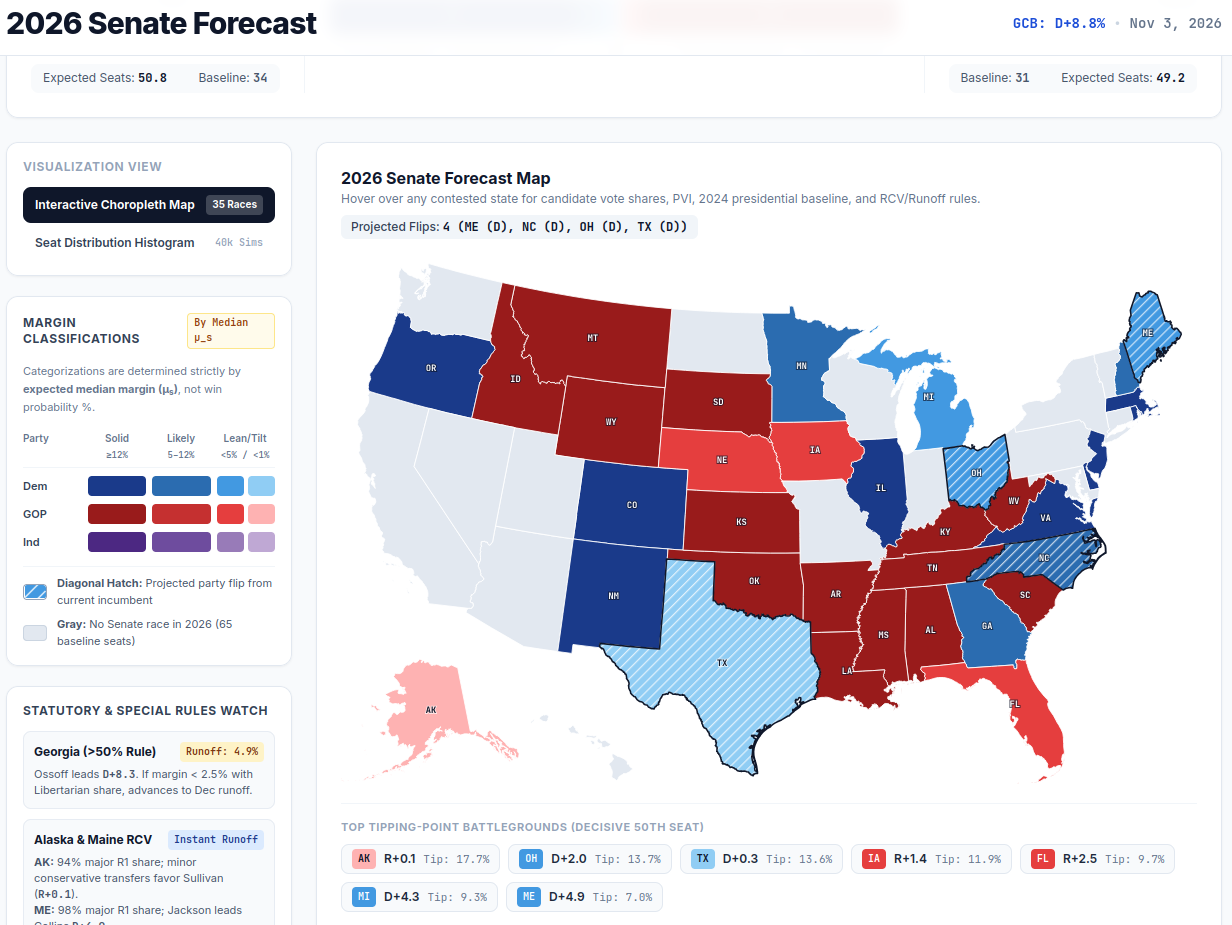
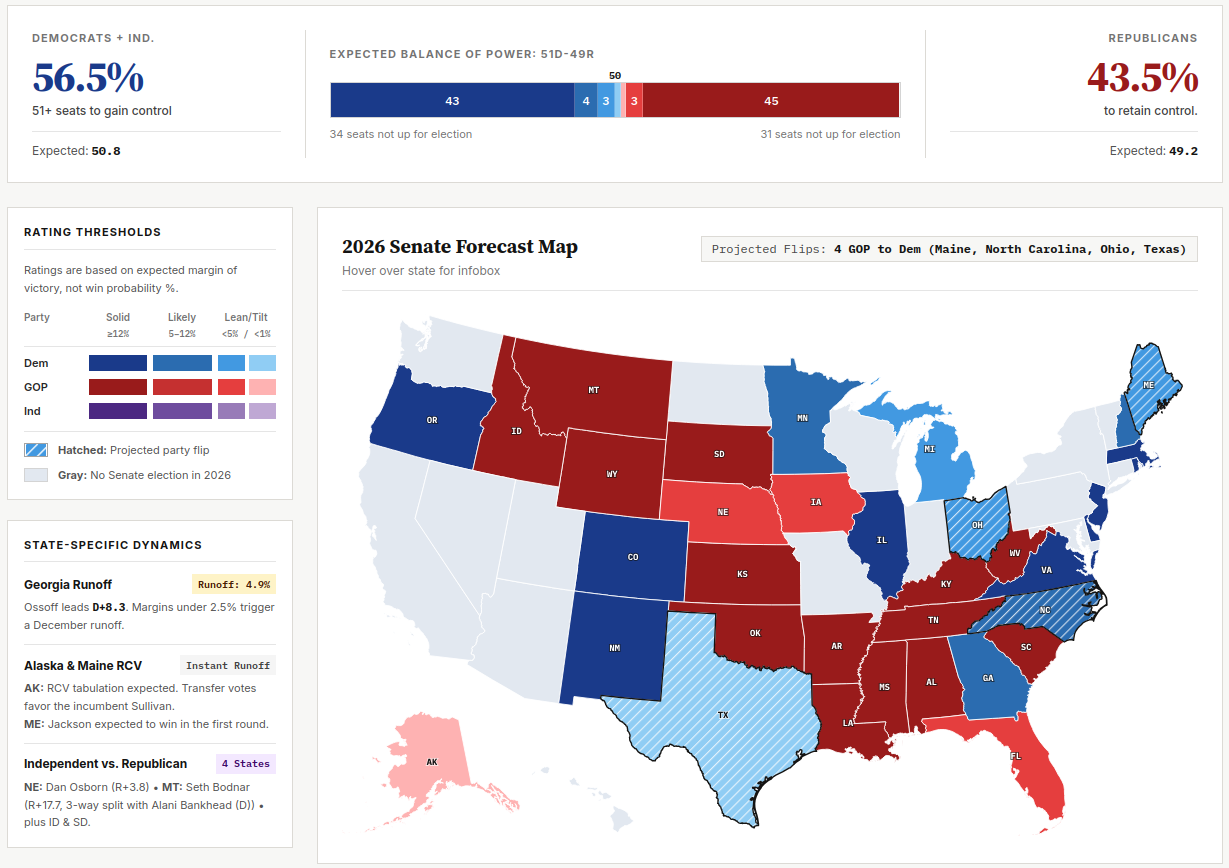
polished methodology section, added readme content, and updated preview image

diff --git a/docs/index.html b/docs/index.html
@@ -332,20 +332,17 @@
         <section id="section-methodology" class="bg-white border border-rule p-6 sm:p-8 space-y-6">
             <div class="border-b border-rule pb-4 flex flex-wrap items-baseline justify-between gap-2">
                 <div>
-                    <span class="text-[11px] font-bold uppercase tracking-widest text-neutral-500">Technical
-                        Documentation</span>
-                    <h2 class="font-serif text-2xl font-bold text-ink mt-0.5">Forecasting Methodology</h2>
+                    <h2 class="font-serif text-2xl font-bold text-ink mt-0.5">Methodology</h2>
                 </div>
-                <span class="text-xs font-mono text-neutral-500">40,000 Correlated Trials</span>
             </div>
 
             <div class="grid grid-cols-1 md:grid-cols-2 lg:grid-cols-3 gap-6 text-xs leading-relaxed text-neutral-700">
                 <!-- Block 1 -->
                 <div class="border-t-2 border-ink pt-3.5 space-y-2">
-                    <h3 class="font-bold text-sm text-ink">1. Polling &amp; Fundamentals Blend (85 / 15)</h3>
+                    <h3 class="font-bold text-sm text-ink">1. Polling &amp; Fundamentals (85 / 15)</h3>
                     <p>
                         For polled races, the expected margin <span class="font-mono text-ink">μ_s</span> weights
-                        recency-decayed, screen-adjusted polling composites at <strong>85%</strong> and structural
+                        screen-adjusted polling composites at <strong>85%</strong>, and 
                         fundamentals at <strong>15%</strong>:
                     </p>
                     <div class="bg-paper p-2.5 border border-rule font-mono text-[11px] text-ink">
@@ -353,26 +350,25 @@
                     </div>
                     <p>
                         Fundamentals combine state Voter Index, the national Generic Ballot (<span
-                            class="font-mono">D+8.8% × Elasticity</span>), strict incumbency (<span
+                            class="font-mono">D+8.8% × Elasticity</span>), incumbency (<span
                             class="font-mono">±2.5%</span> only when a sitting Senator runs; <span
-                            class="font-mono">0.0%</span> in open seats), and candidate office tiers.
+                            class="font-mono">0.0%</span> in open seats), and candidate experience.
                     </p>
                 </div>
 
                 <!-- Block 2 -->
                 <div class="border-t-2 border-ink pt-3.5 space-y-2">
-                    <h3 class="font-bold text-sm text-ink">2. Cycle-Weighted Voter Index (0.65 / 0.35)</h3>
+                    <h3 class="font-bold text-sm text-ink">2. Voter Index</h3>
                     <p>
-                        Each state's baseline Partisan Voter Index weights the 2024 presidential two-party margin
-                        deviation at <strong>65%</strong> and the 2020 deviation at <strong>35%</strong>:
+                        Each state's baseline Partisan Voter Index weights the 2024 presidential margin
+                        at <strong>65%</strong> and the 2020 margin at <strong>35%</strong>:
                     </p>
                     <div class="bg-paper p-2.5 border border-rule font-mono text-[11px] text-ink">
                         PVI_s = 0.65 · Dev_2024 + 0.35 · Dev_2020
                     </div>
                     <p>
                         Registered Voter (RV) and Adult (A) samples are adjusted dynamically using an exponential
-                        saturation dampener <span class="font-mono">exp(-S_total / 150)</span> and bounded spending
-                        turnout skew.
+                        saturation dampener <span class="font-mono">exp(-S_total / 150)</span>.
                     </p>
                 </div>
 
@@ -397,44 +393,29 @@
 
                 <!-- Block 4 -->
                 <div class="border-t-2 border-neutral-400 pt-3.5 space-y-2">
-                    <h3 class="font-bold text-sm text-ink">4. Statutory RCV &amp; Runoff Rules</h3>
+                    <h3 class="font-bold text-sm text-ink">4. RCV &amp; Runoff States</h3>
                     <p>
-                        <strong>Georgia Majority Rule:</strong> Requires &gt;50.0% to win outright. Simulated trials
-                        where <span class="font-mono">|Margin| &lt; 2.5%</span> advance to a December runoff.
+                        <strong>Georgia:</strong> Goes to runoff if no candidate reaches 50%. Simulated trials
+                        where the margin is within 2.5% advance to runoff.
                     </p>
                     <p>
-                        <strong>Alaska &amp; Maine RCV:</strong> Round 1 major-party shares are scaled by <span
-                            class="font-mono">first_choice_share_major</span> (<strong>0.94</strong> in AK,
-                        <strong>0.98</strong> in ME). If neither crosses 50%, non-exhausted minor ballots transfer via
-                        empirical second-choice flows.
+                        <strong>Alaska &amp; Maine RCV:</strong> Major party candidates receive a combined vote share of
+                        <strong>94%</strong> in Alaska and <strong>98%</strong> in Maine. If neither candidate crosses 50%, 
+                        non-exhausted ballots transfer to the major candidates with empirical vote shares.
                     </p>
                 </div>
 
                 <!-- Block 5 -->
                 <div class="border-t-2 border-neutral-400 pt-3.5 space-y-2">
-                    <h3 class="font-bold text-sm text-ink">5. Independent Challengers &amp; 3-Way Splits</h3>
+                    <h3 class="font-bold text-sm text-ink">5. Independent v. Republican &amp; 3-Way Races</h3>
                     <p>
                         Where Democrats did not field a nominee (<strong>Nebraska</strong> with Dan Osborn,
                         <strong>Idaho</strong> with Todd Achilles, <strong>South Dakota</strong> with Brian Bengs), the
-                        Independent is modeled as the primary non-GOP challenger.
+                        Independent is modeled as the "Democratic" candidate.
                     </p>
                     <p>
-                        In <strong>Montana</strong>, where Independent Seth Bodnar runs alongside a Democratic nominee,
-                        a 7.0% coalition split deduction accounts for ballot-line division.
-                    </p>
-                </div>
-
-                <!-- Block 6 -->
-                <div class="border-t-2 border-neutral-400 pt-3.5 space-y-2">
-                    <h3 class="font-bold text-sm text-ink">6. Non-Contested Chamber Baseline</h3>
-                    <p>
-                        Of the 100 U.S. Senate seats, <strong>65 seats</strong> are not up for election in 2026:
-                        <strong>34 held by Democrats/caucusing Independents</strong> and <strong>31 held by
-                            Republicans</strong>.
-                    </p>
-                    <p>
-                        Democrats and caucusing Independents must win at least 17 of the 35 contested seats (reaching 51
-                        total) to gain an outright Senate majority.
+                        In <strong>Montana</strong>, Independent Seth Bodnar runs alongside Democrat Alani Bankhead,
+                        applying a 7 point ballot-splitting penalty.
                     </p>
                 </div>
             </div>

diff --git a/README.md b/README.md
@@ -1,1 +1,17 @@
 ![preview](preview.png)
+
+## Overview
+
+This is my prototypical election forecasting project, for the 2026 U.S. Senate elections, for dipping my toes into the realm. It uses a simplified version of DDHQ's model, and incorporates fundamentals, polling, and Cholesky covariance matrices into Monte-Carlo simulations. The project is deployed at:
+
+rgao.github.io/senate2026_forecast
+
+#### Technology
+
+- python/numpy (for data ingestion and simulations)
+- HTML/CSS/javascript
+- Google Gemini
+
+#### Results
+
+Like most forecasters, this model underestimated Democrats in the 2026 elections, due to a combination of egregious GCB polling error and overvaluing the fundamentals. The 2026 election saw a wave election not seen since Watergate, and Democrats picked up a historic nine Senate seats. The underlying dynamics in the fundamentals had changed (particularly in the deep south), and threw off most election forecasters. Nonetheless, this model did accurate predict the Texas Senate seat flipping, and that the Democrats would gain control of the Senate.
